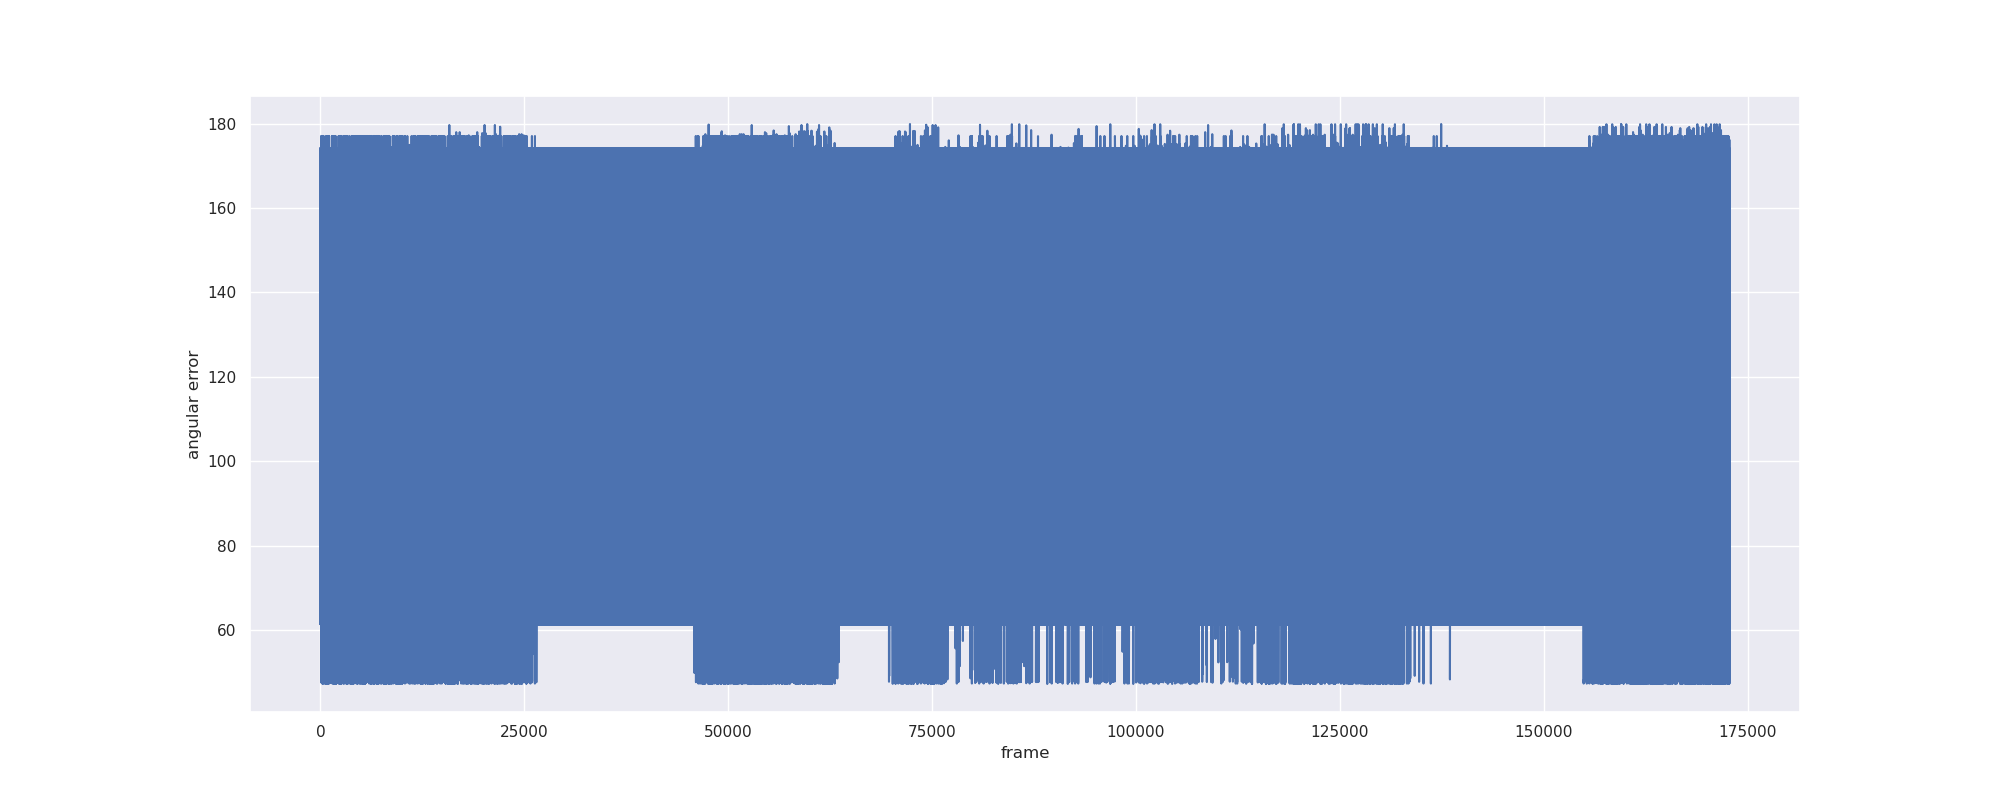
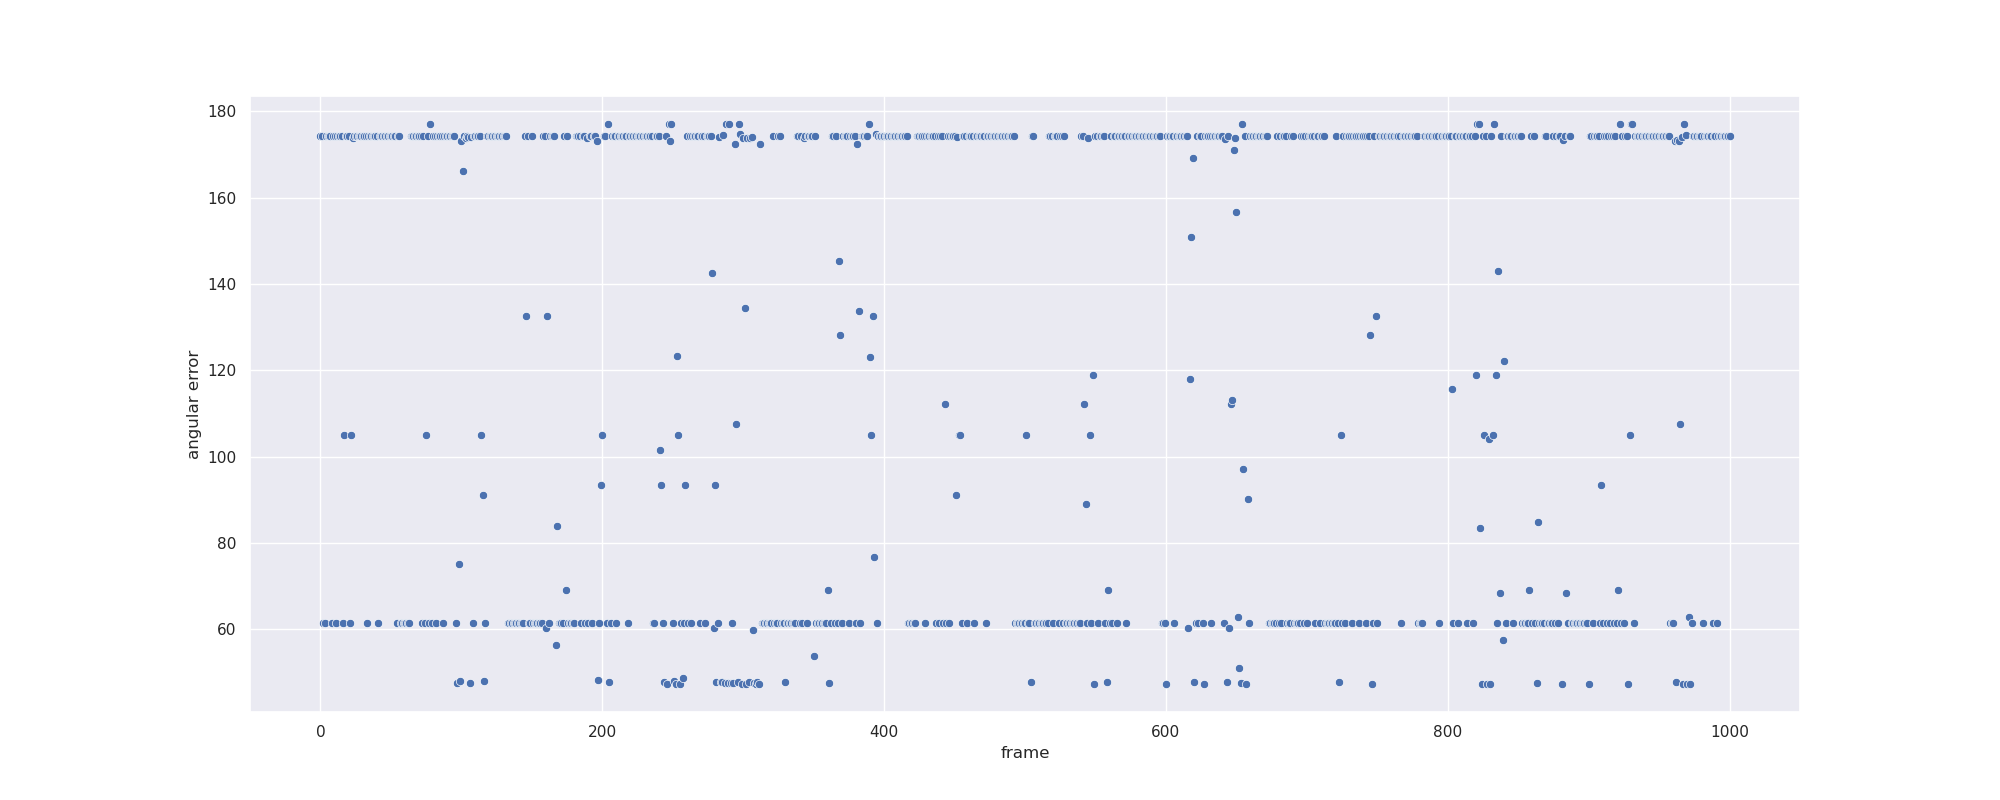
scatterplot of angular error

diff --git a/augmented_safeguard/dataset.py b/augmented_safeguard/dataset.py
@@ -277,20 +277,20 @@ if __name__ == "__main__":
     sns.set_theme()
 
     # angular error plot
-    # sns.set(rc = {'figure.figsize':(20,8)})
-    # sns.lineplot(data=df, x="frame", y="angular error")
-    # plt.savefig("angular_error_all.png")
-    # plt.show()
+    sns.set(rc = {'figure.figsize':(20,8)})
+    sns.scatterplot(data=df, x="frame", y="angular error")
+    plt.savefig("angular_error_all.png")
+    plt.show()
 
     # sphere plot
-    fig = plt.figure()
-    ax = fig.add_subplot(111, projection = '3d')
-    df["euler_x"] = list_euler_angles_x
-    df["euler_y"] = list_euler_angles_y
-    df["euler_z"] = list_euler_angles_z
-    x=df["euler_x"]
-    y=df["euler_y"]
-    z=df["euler_z"]
-    ax.scatter(x, y, z)
-    plt.show()
+    # fig = plt.figure()
+    # ax = fig.add_subplot(111, projection = '3d')
+    # df["euler_x"] = list_euler_angles_x
+    # df["euler_y"] = list_euler_angles_y
+    # df["euler_z"] = list_euler_angles_z
+    # x=df["euler_x"]
+    # y=df["euler_y"]
+    # z=df["euler_z"]
+    # ax.scatter(x, y, z)
+    # plt.show()
 
